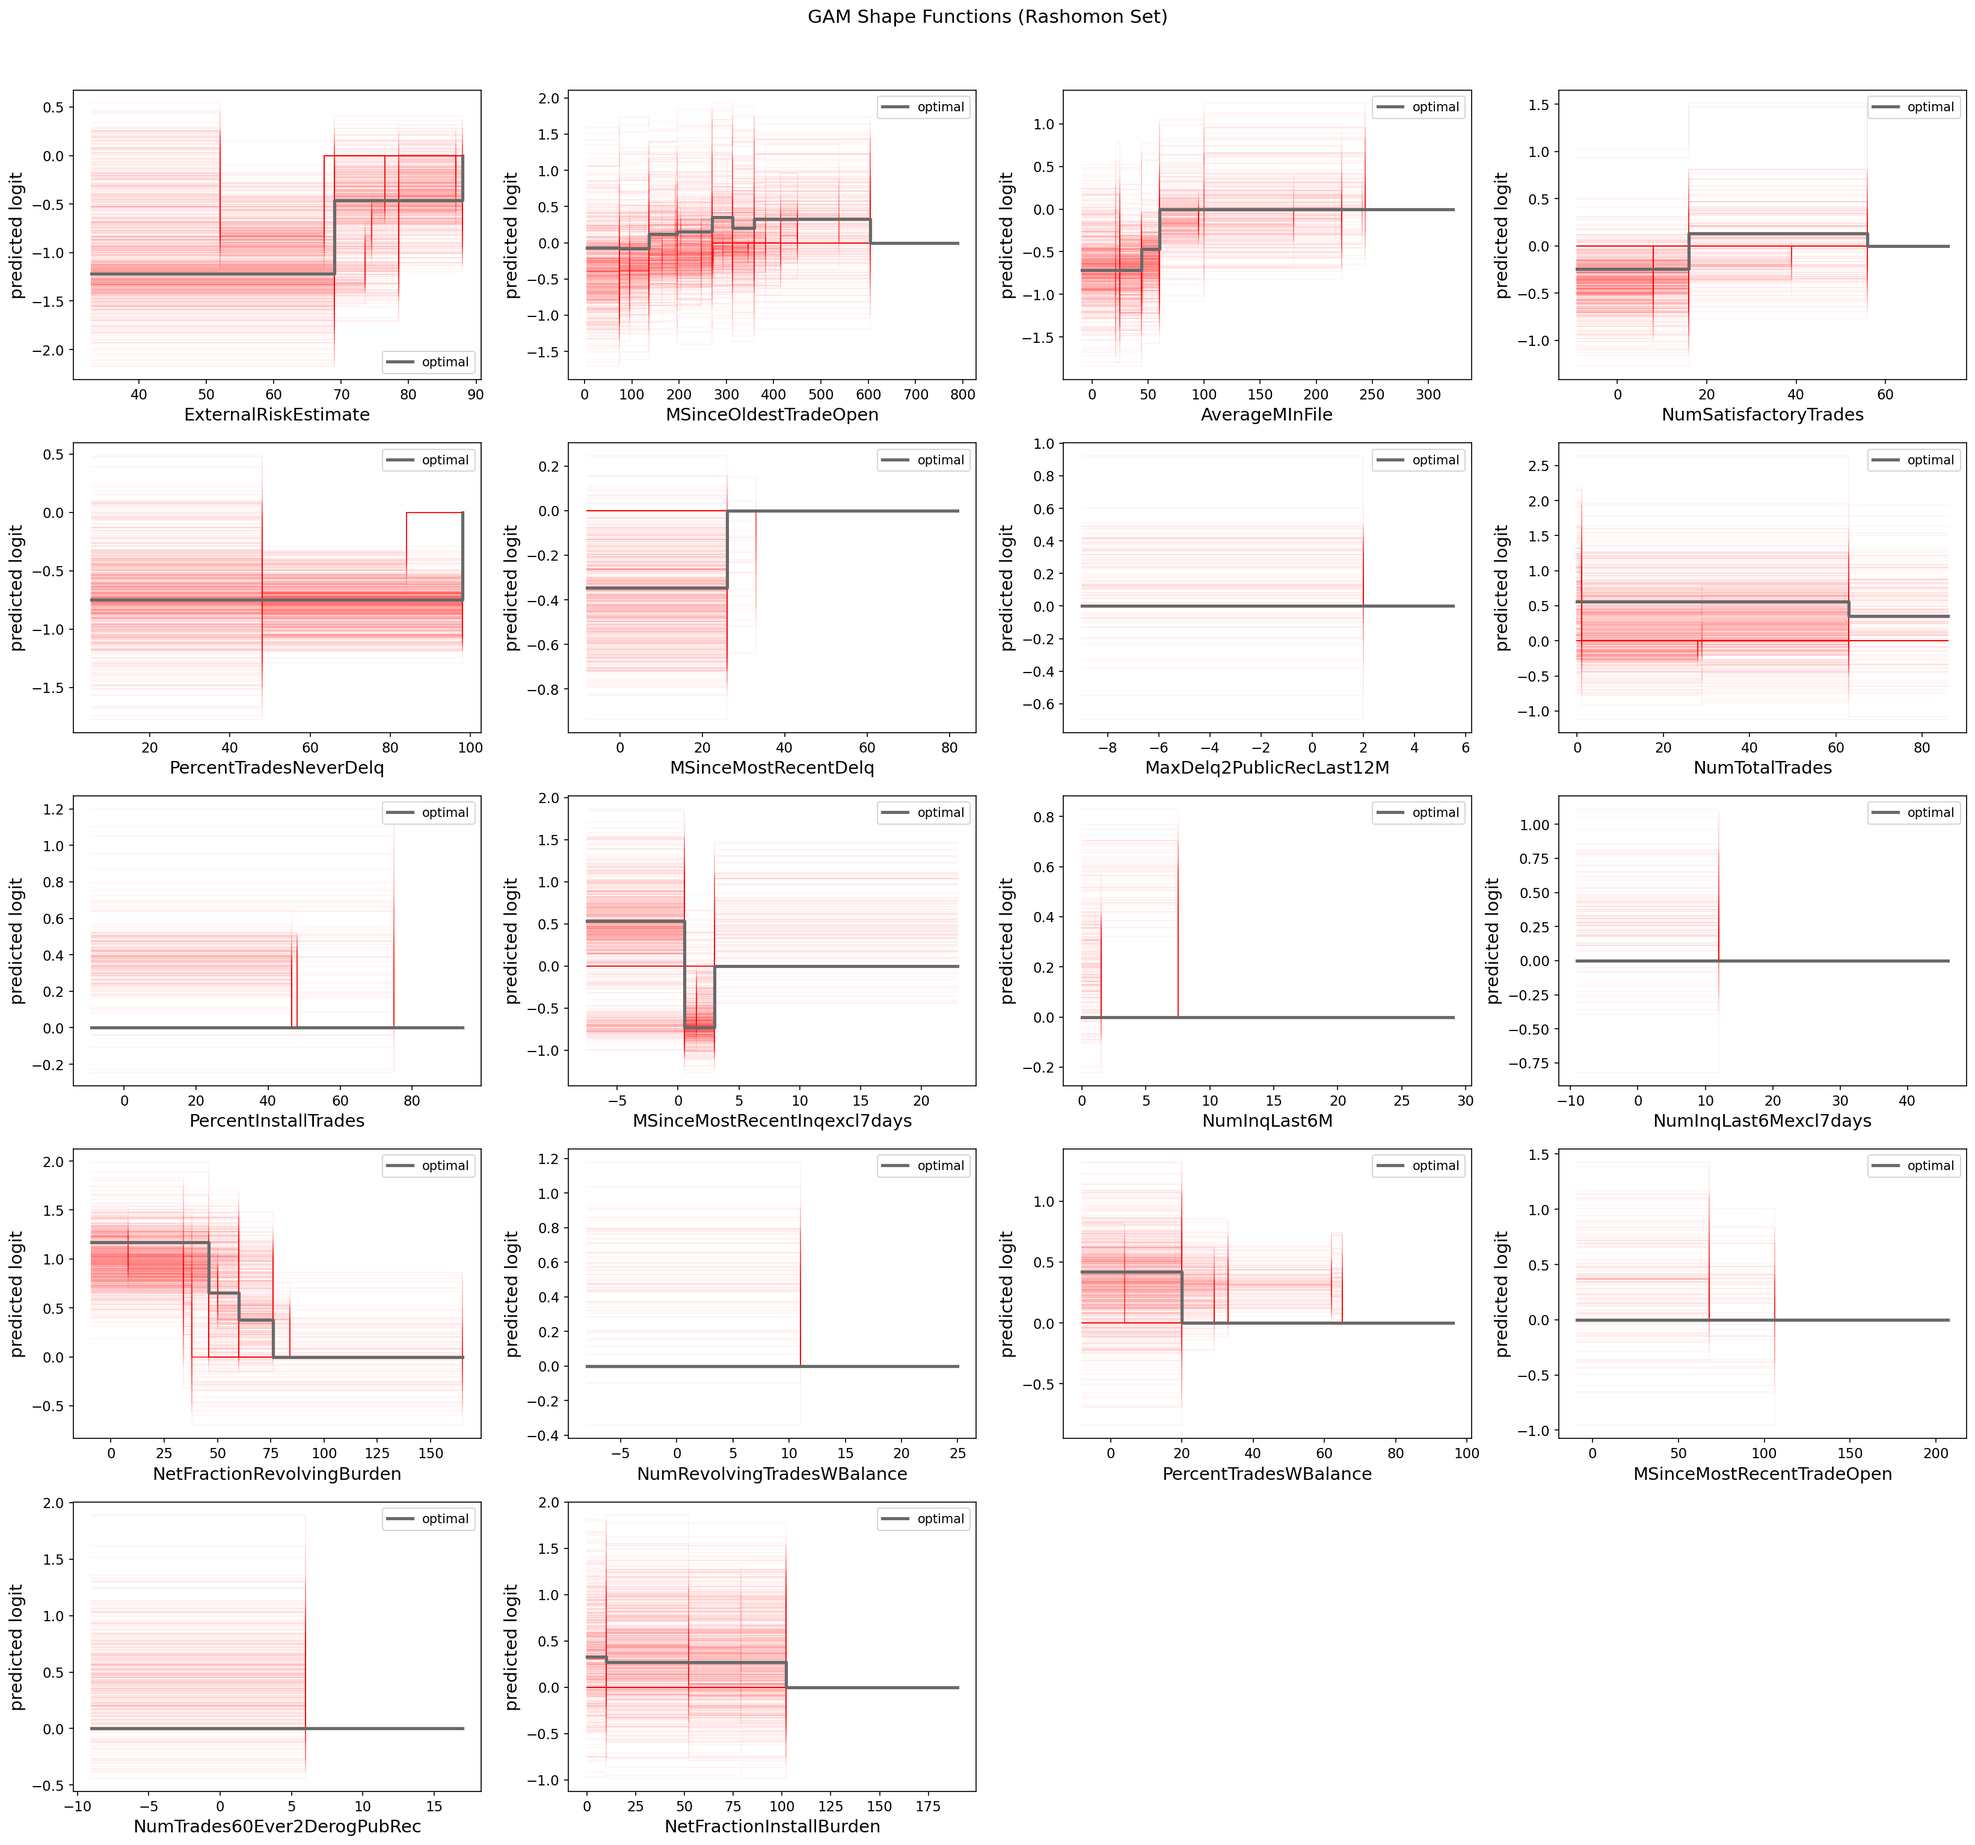
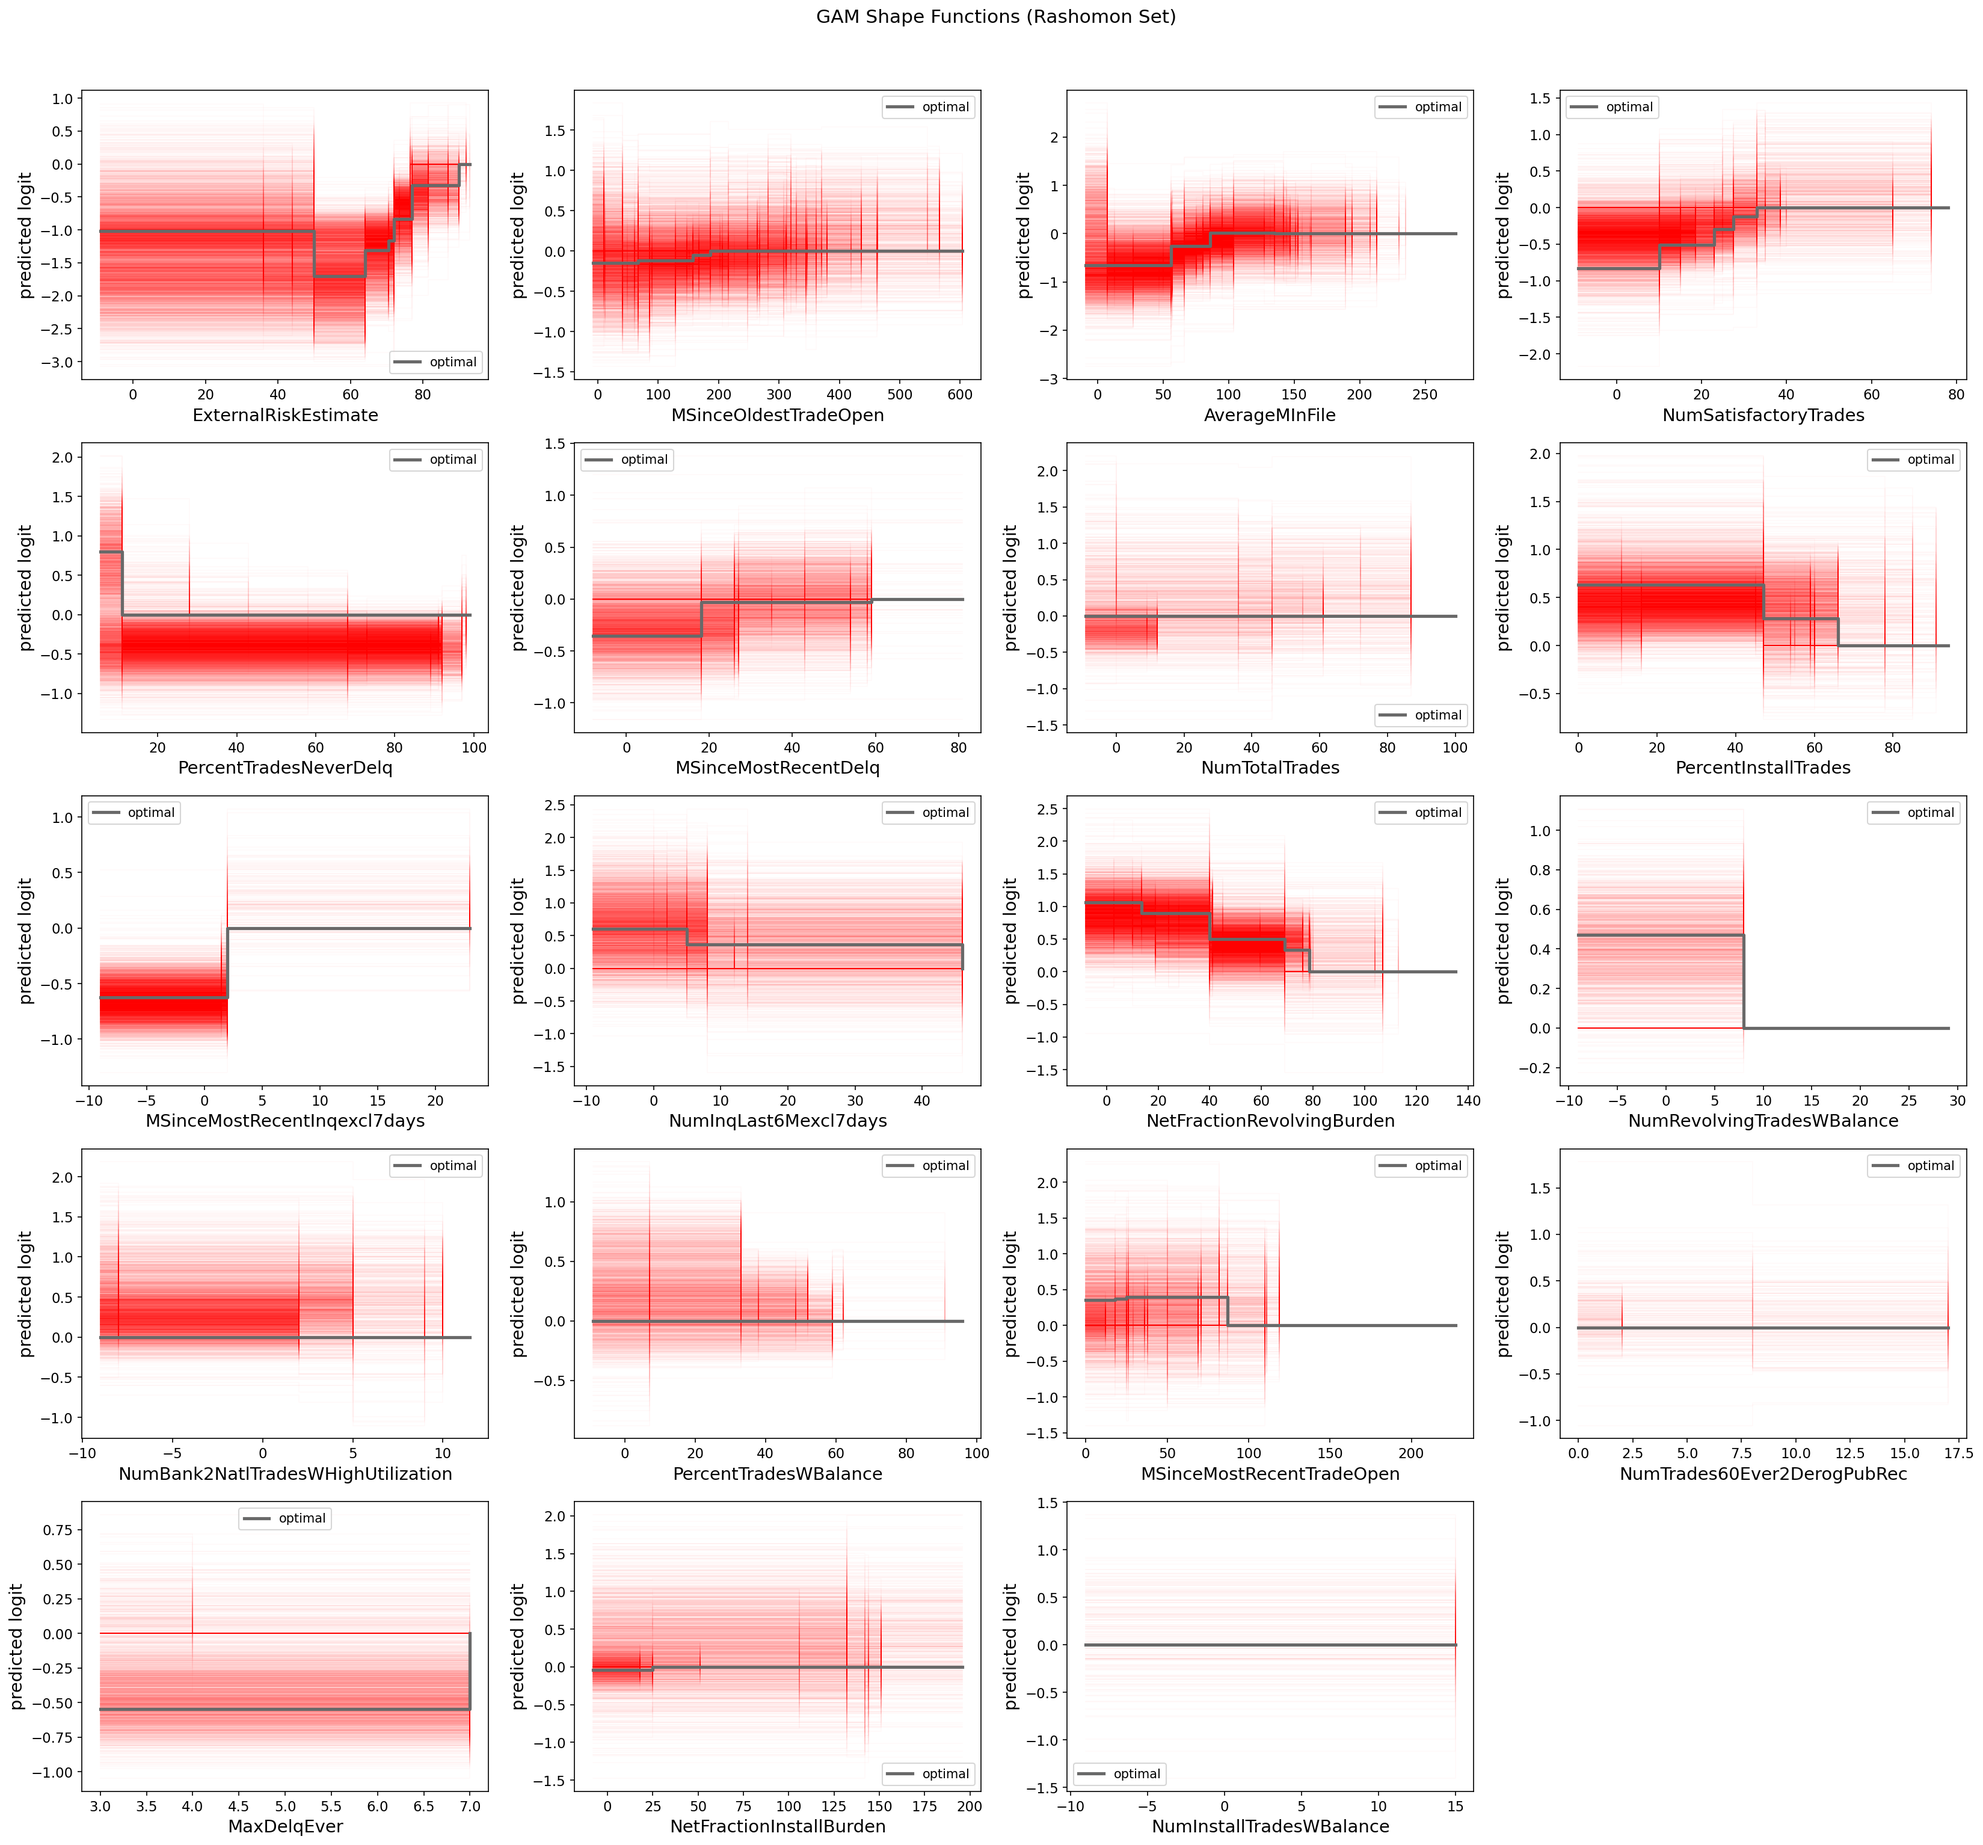
Modified pyproject.toml

diff --git a/example.py b/example.py
@@ -12,11 +12,11 @@ sigma2 = 0.05 # Regularization parameter for a given support set
 eps = 0.025 # note that the eps is with respect to the regularized loss, so the accuracy ranges may not reflect the eps you want to use. Adjust accordingly. 
 p_feat = 1e-4 # Support set sparsity prior. 
 
-n_steps = 500 # Total number of steps to run for the MCMC sampler.
-diversity_fn = "prediction_hamming" # maximize Rashomon set with respect to this diversity function. 
+n_steps = 1000 # Total number of steps to run for the MCMC sampler.
+diversity_fn = "monotonicity_entropy" # maximize Rashomon set with respect to this diversity function. 
                                     # Options: "prediction_hamming", "jaccard", "monotonicity_entropy", "l1"
 
-dataset = "fico"
+dataset = "compas"
 # 1. Load dataset. The last column is the binary target.
 data = pd.read_csv(f"datasets/{dataset}.csv").reset_index(drop=True)
 
@@ -33,11 +33,11 @@ sampler = gram.MCMCRashomonSampler(
     feature_groups=feature_groups,
 )
 result = sampler.sample(
-    n_steps=500,
+    n_steps=n_steps,
     proposal="adaptive_resize",
     mh_variant="repulsive",
     finetune_coordinate = True,
-        diversity_fn=diversity_fn,
+    diversity_fn=diversity_fn,
     )
 print(f"{result.w_models.shape[0]} models, "
       f"training error {result.best_error:.4f} -> {result.error_bound:.4f}")
